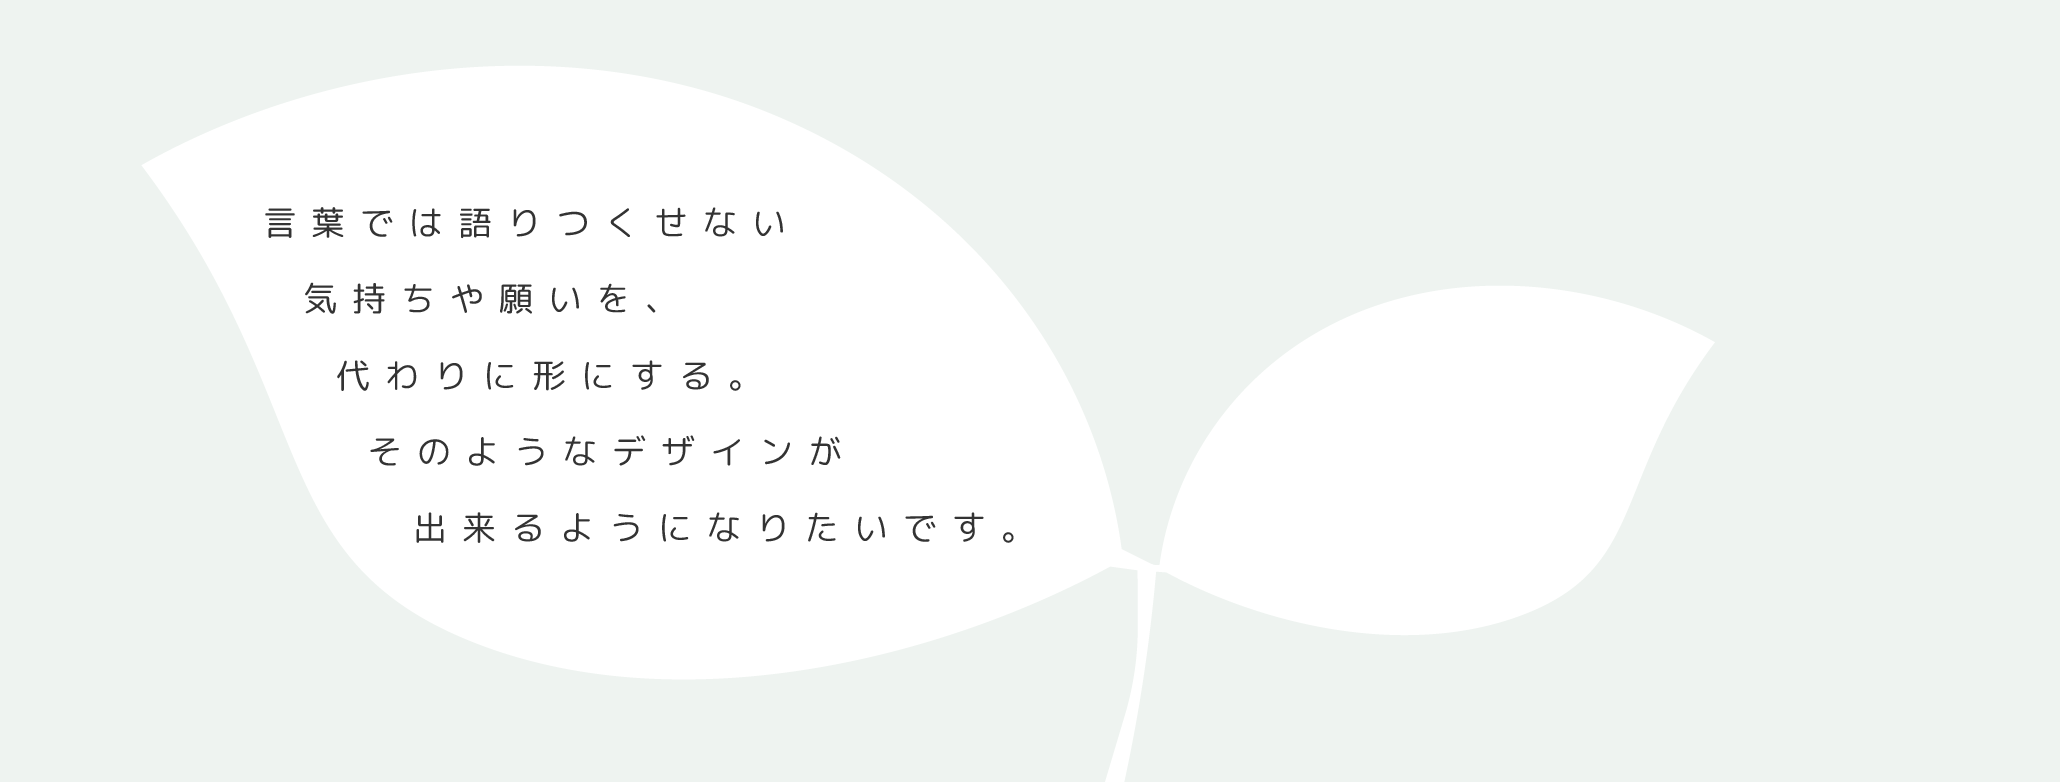
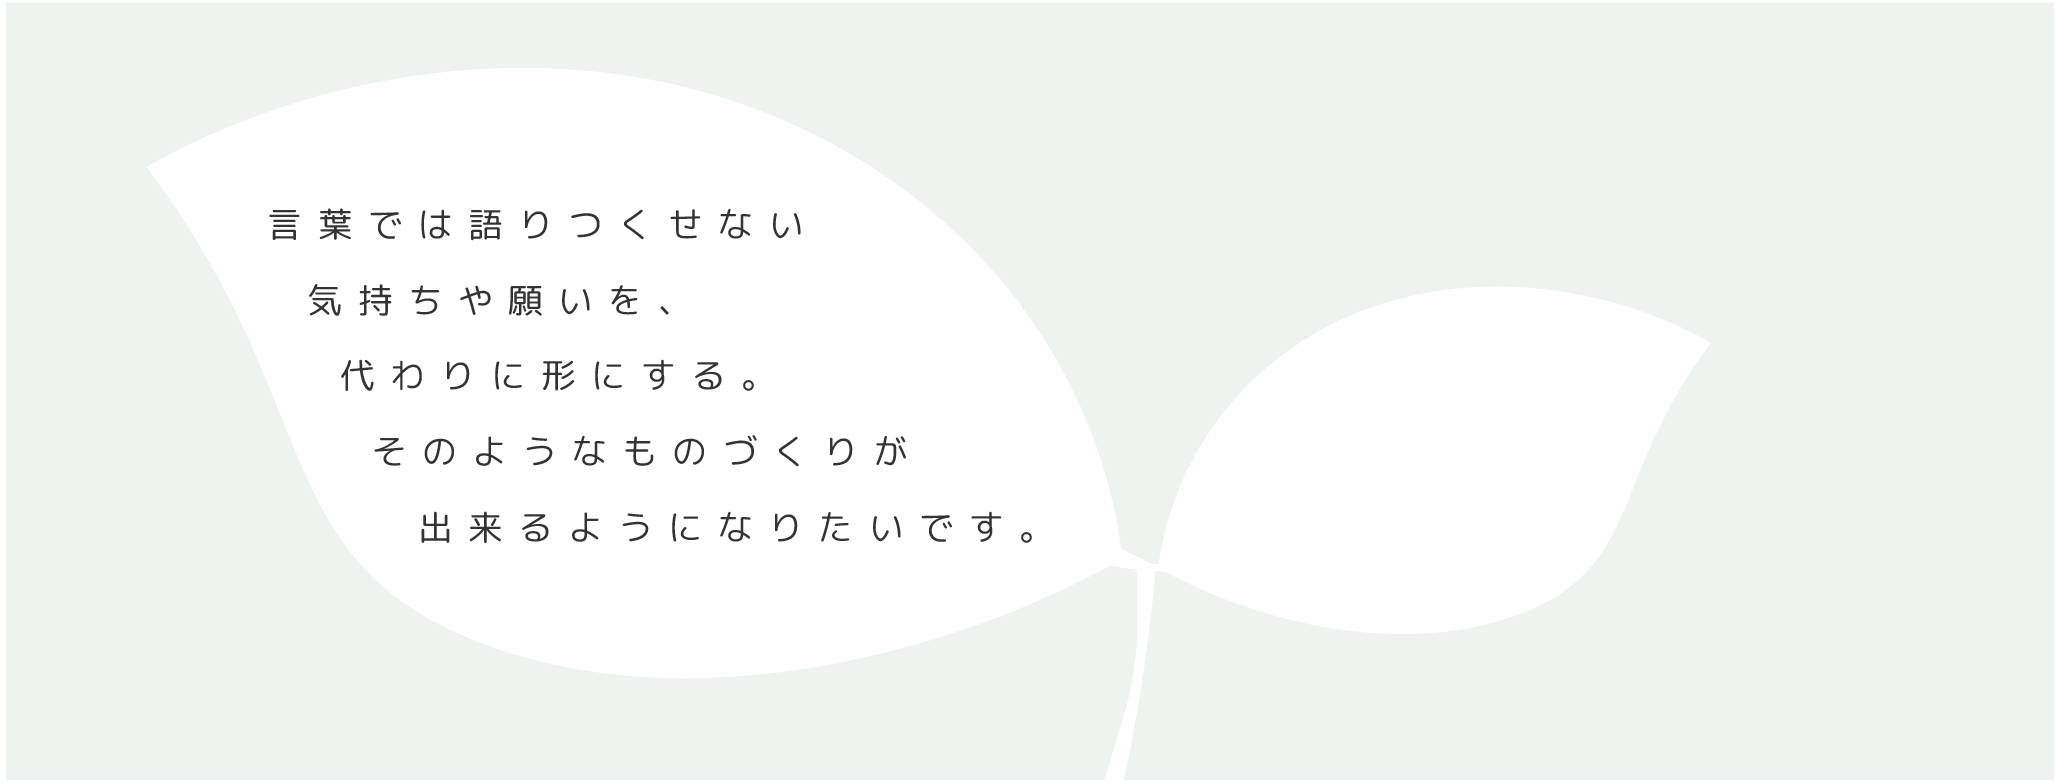
change keyvisual

diff --git a/index.html b/index.html
@@ -7,7 +7,7 @@
     <meta name="viewport" content="width=device-width, initial-scale=1.0">
     <meta name="description" content="Webデザインを勉強している理系大学生のポートフォリオサイトです。
 言葉では語りつくせない気持ちや願いを、代わり形にする。
-そのようなデザインができるようになりたいと思っています。">
+そのようなものづくりができるようになりたいと思っています。">
 
     <!-- favicon start-->
     <link rel="icon shortcut" href="./favicon/favicon.ico">
@@ -21,7 +21,7 @@
     <meta property="og:title" content="Profile | Portfolio of HI">
     <meta property="og:description" content="Webデザインを勉強している理系大学生のポートフォリオサイトです。
 言葉では語りつくせない気持ちや願いを、代わり形にする。
-そのようなデザインができるようになりたいと思っています。">
+そのようなものづくりができるようになりたいと思っています。">
     <meta property="og:locale" content="ja_JP">
     <!-- ogp end -->
 
@@ -61,13 +61,13 @@
         <div class="key-visual-wrap">
             <img v-if="width >= 1024" src="./images/keyvisual_pc.svg" alt="Webデザインを勉強している理系大学生のポートフォリオサイトです。
                                                             言葉では語りつくせない気持ちや願いを、代わり形にする。
-                                                            そのようなデザインができるようになりたいと思っています。">
+                                                            そのようなものづくりができるようになりたいと思っています。">
             <img v-if="width < 1024 && width >= 769" src="./images/keyvisual_tab.svg" alt="Webデザインを勉強している理系大学生のポートフォリオサイトです。
                                                                     言葉では語りつくせない気持ちや願いを、代わり形にする。
-                                                                    そのようなデザインができるようになりたいと思っています。">
+                                                                    そのようなものづくりができるようになりたいと思っています。">
             <img v-if="width < 769" src="./images/keyvisual_sp.svg" alt="Webデザインを勉強している理系大学生のポートフォリオサイトです。
                                                                     言葉では語りつくせない気持ちや願いを、代わり形にする。
-                                                                    そのようなデザインができるようになりたいと思っています。">
+                                                                    そのようなものづくりができるようになりたいと思っています。">
         </div>
     </figure>
 
